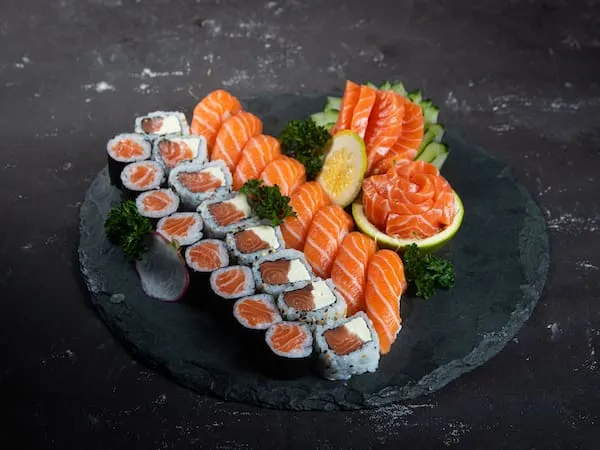
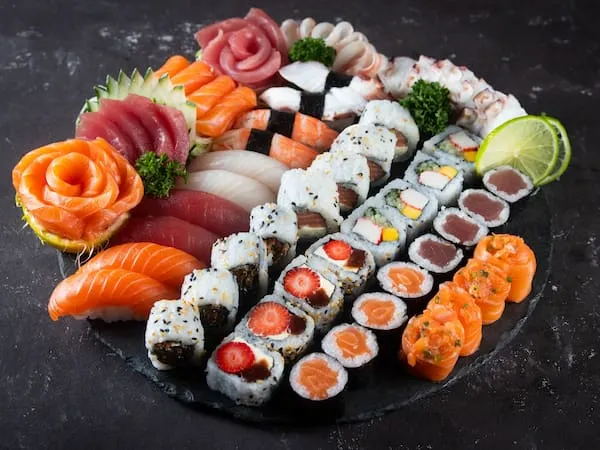
Add files via upload

diff --git a/produtos/sushi/combo-yugen/combo-yugen.html b/produtos/sushi/combo-yugen/combo-yugen.html
@@ -124,11 +124,8 @@
 						</figure>
 					</div>
 					<div class="descricao">
-						<h3>Combo Yūgen — 32 Unidades</h3>
-						<span class="detalhe">Sashimi: 8 Unidades
-Nigiri: 8 Unidades
-Uramaki: 8 Filadélfia
-Hossomaki: 8 Shake Maki</span>
+						<h3>Combo Yūgen — 78 peças</h3>
+						<span class="detalhe">Sashimi – , 10 salmão, 10 peixe branco,10 polvo, 10 atum; niguiri – 2 salmão, 2 atum, , 2 peixe , 2 camarao,2 branco, 2 polvo; uramaki – 4 filadélfia, 4 romeu e julieta, 4 califórnia,4 skin, 4 jow, ; hossomaki – 4 shake maki, 4 teka maki</span>
 						de <span class="precoPromocao">R$ 149,80</span> por
 						<span class="preco">
 							R$ 49,90<span style="display:none;">49.90</span>
